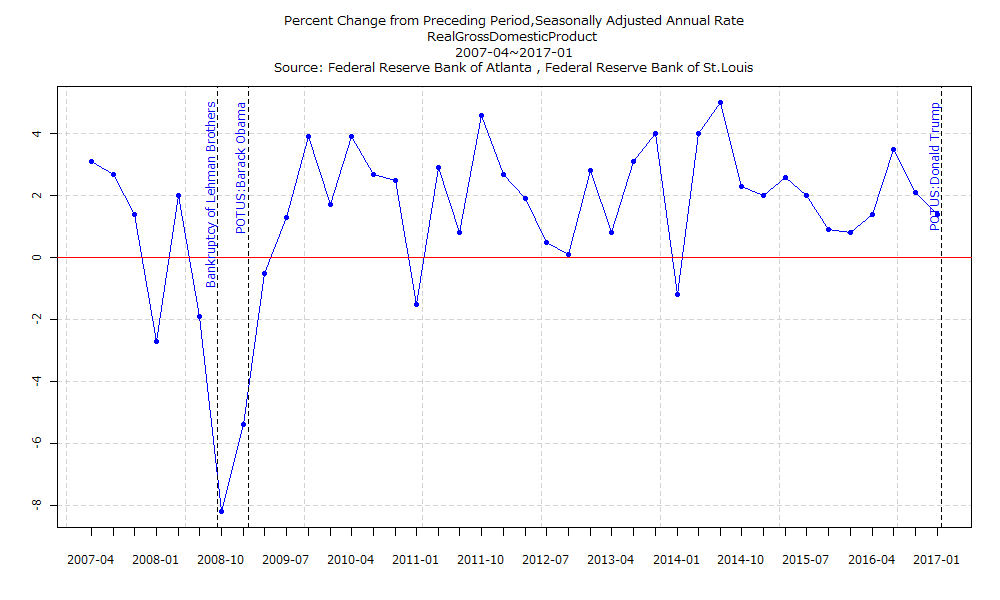
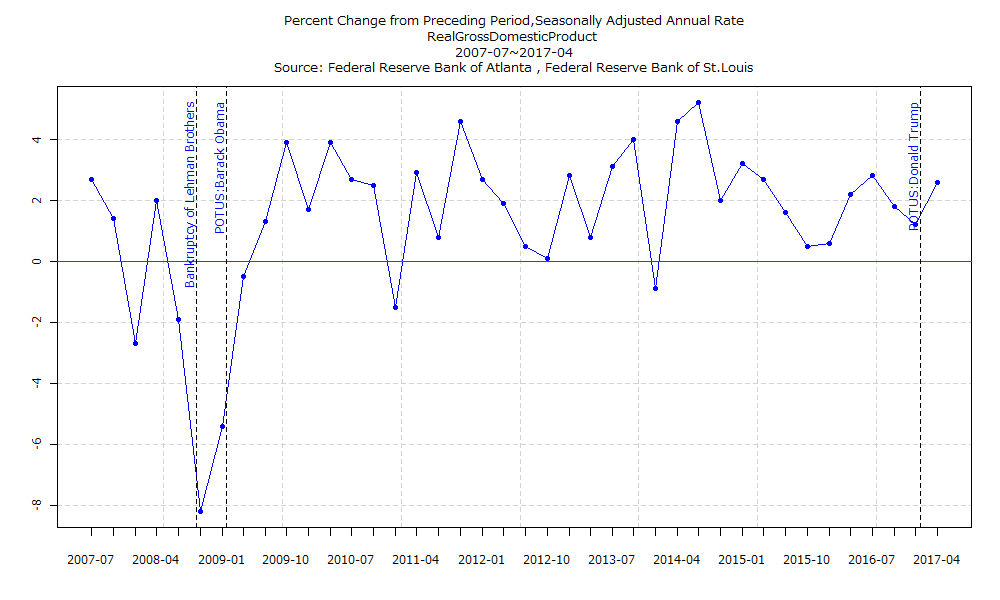
定期更新
定期更新

diff --git a/charts/am-consulting.co.jp-LatestGDPNow.html b/charts/am-consulting.co.jp-LatestGDPNow.html
@@ -149,7 +149,7 @@ $(document).ready(function () {
 
 <h1 class="title toc-ignore">Latest GDPNow(Source:Federal Reserve Bank of Atlanta , Federal Reserve Bank of St.Louis)</h1>
 <h4 class="author"><em>アセット･マネジメント･コンサルティング株式会社 <a href="http://am-consulting.co.jp" class="uri">http://am-consulting.co.jp</a></em></h4>
-<h4 class="date"><em>2017-07-13 21:27:27</em></h4>
+<h4 class="date"><em>2017-08-01 11:38:52</em></h4>
 
 </div>
 
@@ -168,7 +168,7 @@ $(document).ready(function () {
 </ul>
 <hr />
 <ul>
-<li>タイトル : Latest GDPNow(GDPNOW):2017-Q2:2.5542%</li>
+<li>タイトル : Latest GDPNow(GDPNOW):2017-Q2:2.8194%</li>
 <li>データ出所 : Federal Reserve Bank of Atlanta , Federal Reserve Bank of St.Louis</li>
 <li>Real GDP growth (Seasonally adjusted annual rate,Quarterly percent change (SAAR))</li>
 <li>Source <a href="https://www.frbatlanta.org/cqer/research/gdpnow.aspx?panel=1" class="uri">https://www.frbatlanta.org/cqer/research/gdpnow.aspx?panel=1</a></li>
@@ -180,17 +180,14 @@ $(document).ready(function () {
 <ul>
 <li>Percent Change from Preceding Period,Seasonally Adjusted Annual Rate</li>
 </ul>
-<div id="htmlwidget-5790e74c674579276d4e" style="width:1056px;height:384px;" class="dygraphs html-widget"></div>
-<script type="application/json" data-for="htmlwidget-5790e74c674579276d4e">{"x":{"attrs":{"title":"","labels":["quarter","RealGrossDomesticProduct"],"retainDateWindow":false,"axes":{"x":{"pixelsPerLabel":60,"drawAxis":true},"y":{"drawAxis":true}},"legend":"follow","labelsDivWidth":300,"labelsShowZeroValues":true,"labelsSeparateLines":false,"hideOverlayOnMouseOut":true,"showRangeSelector":true,"rangeSelectorHeight":40,"rangeSelectorPlotFillColor":" #A7B1C4","rangeSelectorPlotStrokeColor":"#808FAB","interactionModel":"Dygraph.Interaction.defaultModel","stackedGraph":false,"fillGraph":false,"fillAlpha":0.15,"stepPlot":false,"drawPoints":false,"pointSize":1,"drawGapEdgePoints":false,"connectSeparatedPoints":false,"strokeWidth":1,"strokeBorderColor":"white","colors":["#1B9E77","#D95F02","#7570B3"],"colorValue":0.5,"colorSaturation":1,"includeZero":false,"drawAxesAtZero":false,"logscale":false,"axisTickSize":3,"axisLineColor":"black","axisLineWidth":0.3,"axisLabelColor":"black","axisLabelFontSize":14,"axisLabelWidth":60,"drawGrid":true,"gridLineWidth":0.3,"rightGap":5,"digitsAfterDecimal":2,"labelsKMB":false,"labelsKMG2":false,"labelsUTC":false,"maxNumberWidth":100,"animatedZooms":false,"mobileDisableYTouch":true},"scale":"quarterly","annotations":[],"shadings":[],"events":[{"pos":0,"labelLoc":"left","color":"red","strokePattern":[7,3],"axis":"y"}],"format":"date","data":[["1947-04-01T00:00:00.000Z","1947-07-01T00:00:00.000Z","1947-10-01T00:00:00.000Z","1948-01-01T00:00:00.000Z","1948-04-01T00:00:00.000Z","1948-07-01T00:00:00.000Z","1948-10-01T00:00:00.000Z","1949-01-01T00:00:00.000Z","1949-04-01T00:00:00.000Z","1949-07-01T00:00:00.000Z","1949-10-01T00:00:00.000Z","1950-01-01T00:00:00.000Z","1950-04-01T00:00:00.000Z","1950-07-01T00:00:00.000Z","1950-10-01T00:00:00.000Z","1951-01-01T00:00:00.000Z","1951-04-01T00:00:00.000Z","1951-07-01T00:00:00.000Z","1951-10-01T00:00:00.000Z","1952-01-01T00:00:00.000Z","1952-04-01T00:00:00.000Z","1952-07-01T00:00:00.000Z","1952-10-01T00:00:00.000Z","1953-01-01T00:00:00.000Z","1953-04-01T00:00:00.000Z","1953-07-01T00:00:00.000Z","1953-10-01T00:00:00.000Z","1954-01-01T00:00:00.000Z","1954-04-01T00:00:00.000Z","1954-07-01T00:00:00.000Z","1954-10-01T00:00:00.000Z","1955-01-01T00:00:00.000Z","1955-04-01T00:00:00.000Z","1955-07-01T00:00:00.000Z","1955-10-01T00:00:00.000Z","1956-01-01T00:00:00.000Z","1956-04-01T00:00:00.000Z","1956-07-01T00:00:00.000Z","1956-10-01T00:00:00.000Z","1957-01-01T00:00:00.000Z","1957-04-01T00:00:00.000Z","1957-07-01T00:00:00.000Z","1957-10-01T00:00:00.000Z","1958-01-01T00:00:00.000Z","1958-04-01T00:00:00.000Z","1958-07-01T00:00:00.000Z","1958-10-01T00:00:00.000Z","1959-01-01T00:00:00.000Z","1959-04-01T00:00:00.000Z","1959-07-01T00:00:00.000Z","1959-10-01T00:00:00.000Z","1960-01-01T00:00:00.000Z","1960-04-01T00:00:00.000Z","1960-07-01T00:00:00.000Z","1960-10-01T00:00:00.000Z","1961-01-01T00:00:00.000Z","1961-04-01T00:00:00.000Z","1961-07-01T00:00:00.000Z","1961-10-01T00:00:00.000Z","1962-01-01T00:00:00.000Z","1962-04-01T00:00:00.000Z","1962-07-01T00:00:00.000Z","1962-10-01T00:00:00.000Z","1963-01-01T00:00:00.000Z","1963-04-01T00:00:00.000Z","1963-07-01T00:00:00.000Z","1963-10-01T00:00:00.000Z","1964-01-01T00:00:00.000Z","1964-04-01T00:00:00.000Z","1964-07-01T00:00:00.000Z","1964-10-01T00:00:00.000Z","1965-01-01T00:00:00.000Z","1965-04-01T00:00:00.000Z","1965-07-01T00:00:00.000Z","1965-10-01T00:00:00.000Z","1966-01-01T00:00:00.000Z","1966-04-01T00:00:00.000Z","1966-07-01T00:00:00.000Z","1966-10-01T00:00:00.000Z","1967-01-01T00:00:00.000Z","1967-04-01T00:00:00.000Z","1967-07-01T00:00:00.000Z","1967-10-01T00:00:00.000Z","1968-01-01T00:00:00.000Z","1968-04-01T00:00:00.000Z","1968-07-01T00:00:00.000Z","1968-10-01T00:00:00.000Z","1969-01-01T00:00:00.000Z","1969-04-01T00:00:00.000Z","1969-07-01T00:00:00.000Z","1969-10-01T00:00:00.000Z","1970-01-01T00:00:00.000Z","1970-04-01T00:00:00.000Z","1970-07-01T00:00:00.000Z","1970-10-01T00:00:00.000Z","1971-01-01T00:00:00.000Z","1971-04-01T00:00:00.000Z","1971-07-01T00:00:00.000Z","1971-10-01T00:00:00.000Z","1972-01-01T00:00:00.000Z","1972-04-01T00:00:00.000Z","1972-07-01T00:00:00.000Z","1972-10-01T00:00:00.000Z","1973-01-01T00:00:00.000Z","1973-04-01T00:00:00.000Z","1973-07-01T00:00:00.000Z","1973-10-01T00:00:00.000Z","1974-01-01T00:00:00.000Z","1974-04-01T00:00:00.000Z","1974-07-01T00:00:00.000Z","1974-10-01T00:00:00.000Z","1975-01-01T00:00:00.000Z","1975-04-01T00:00:00.000Z","1975-07-01T00:00:00.000Z","1975-10-01T00:00:00.000Z","1976-01-01T00:00:00.000Z","1976-04-01T00:00:00.000Z","1976-07-01T00:00:00.000Z","1976-10-01T00:00:00.000Z","1977-01-01T00:00:00.000Z","1977-04-01T00:00:00.000Z","1977-07-01T00:00:00.000Z","1977-10-01T00:00:00.000Z","1978-01-01T00:00:00.000Z","1978-04-01T00:00:00.000Z","1978-07-01T00:00:00.000Z","1978-10-01T00:00:00.000Z","1979-01-01T00:00:00.000Z","1979-04-01T00:00:00.000Z","1979-07-01T00:00:00.000Z","1979-10-01T00:00:00.000Z","1980-01-01T00:00:00.000Z","1980-04-01T00:00:00.000Z","1980-07-01T00:00:00.000Z","1980-10-01T00:00:00.000Z","1981-01-01T00:00:00.000Z","1981-04-01T00:00:00.000Z","1981-07-01T00:00:00.000Z","1981-10-01T00:00:00.000Z","1982-01-01T00:00:00.000Z","1982-04-01T00:00:00.000Z","1982-07-01T00:00:00.000Z","1982-10-01T00:00:00.000Z","1983-01-01T00:00:00.000Z","1983-04-01T00:00:00.000Z","1983-07-01T00:00:00.000Z","1983-10-01T00:00:00.000Z","1984-01-01T00:00:00.000Z","1984-04-01T00:00:00.000Z","1984-07-01T00:00:00.000Z","1984-10-01T00:00:00.000Z","1985-01-01T00:00:00.000Z","1985-04-01T00:00:00.000Z","1985-07-01T00:00:00.000Z","1985-10-01T00:00:00.000Z","1986-01-01T00:00:00.000Z","1986-04-01T00:00:00.000Z","1986-07-01T00:00:00.000Z","1986-10-01T00:00:00.000Z","1987-01-01T00:00:00.000Z","1987-04-01T00:00:00.000Z","1987-07-01T00:00:00.000Z","1987-10-01T00:00:00.000Z","1988-01-01T00:00:00.000Z","1988-04-01T00:00:00.000Z","1988-07-01T00:00:00.000Z","1988-10-01T00:00:00.000Z","1989-01-01T00:00:00.000Z","1989-04-01T00:00:00.000Z","1989-07-01T00:00:00.000Z","1989-10-01T00:00:00.000Z","1990-01-01T00:00:00.000Z","1990-04-01T00:00:00.000Z","1990-07-01T00:00:00.000Z","1990-10-01T00:00:00.000Z","1991-01-01T00:00:00.000Z","1991-04-01T00:00:00.000Z","1991-07-01T00:00:00.000Z","1991-10-01T00:00:00.000Z","1992-01-01T00:00:00.000Z","1992-04-01T00:00:00.000Z","1992-07-01T00:00:00.000Z","1992-10-01T00:00:00.000Z","1993-01-01T00:00:00.000Z","1993-04-01T00:00:00.000Z","1993-07-01T00:00:00.000Z","1993-10-01T00:00:00.000Z","1994-01-01T00:00:00.000Z","1994-04-01T00:00:00.000Z","1994-07-01T00:00:00.000Z","1994-10-01T00:00:00.000Z","1995-01-01T00:00:00.000Z","1995-04-01T00:00:00.000Z","1995-07-01T00:00:00.000Z","1995-10-01T00:00:00.000Z","1996-01-01T00:00:00.000Z","1996-04-01T00:00:00.000Z","1996-07-01T00:00:00.000Z","1996-10-01T00:00:00.000Z","1997-01-01T00:00:00.000Z","1997-04-01T00:00:00.000Z","1997-07-01T00:00:00.000Z","1997-10-01T00:00:00.000Z","1998-01-01T00:00:00.000Z","1998-04-01T00:00:00.000Z","1998-07-01T00:00:00.000Z","1998-10-01T00:00:00.000Z","1999-01-01T00:00:00.000Z","1999-04-01T00:00:00.000Z","1999-07-01T00:00:00.000Z","1999-10-01T00:00:00.000Z","2000-01-01T00:00:00.000Z","2000-04-01T00:00:00.000Z","2000-07-01T00:00:00.000Z","2000-10-01T00:00:00.000Z","2001-01-01T00:00:00.000Z","2001-04-01T00:00:00.000Z","2001-07-01T00:00:00.000Z","2001-10-01T00:00:00.000Z","2002-01-01T00:00:00.000Z","2002-04-01T00:00:00.000Z","2002-07-01T00:00:00.000Z","2002-10-01T00:00:00.000Z","2003-01-01T00:00:00.000Z","2003-04-01T00:00:00.000Z","2003-07-01T00:00:00.000Z","2003-10-01T00:00:00.000Z","2004-01-01T00:00:00.000Z","2004-04-01T00:00:00.000Z","2004-07-01T00:00:00.000Z","2004-10-01T00:00:00.000Z","2005-01-01T00:00:00.000Z","2005-04-01T00:00:00.000Z","2005-07-01T00:00:00.000Z","2005-10-01T00:00:00.000Z","2006-01-01T00:00:00.000Z","2006-04-01T00:00:00.000Z","2006-07-01T00:00:00.000Z","2006-10-01T00:00:00.000Z","2007-01-01T00:00:00.000Z","2007-04-01T00:00:00.000Z","2007-07-01T00:00:00.000Z","2007-10-01T00:00:00.000Z","2008-01-01T00:00:00.000Z","2008-04-01T00:00:00.000Z","2008-07-01T00:00:00.000Z","2008-10-01T00:00:00.000Z","2009-01-01T00:00:00.000Z","2009-04-01T00:00:00.000Z","2009-07-01T00:00:00.000Z","2009-10-01T00:00:00.000Z","2010-01-01T00:00:00.000Z","2010-04-01T00:00:00.000Z","2010-07-01T00:00:00.000Z","2010-10-01T00:00:00.000Z","2011-01-01T00:00:00.000Z","2011-04-01T00:00:00.000Z","2011-07-01T00:00:00.000Z","2011-10-01T00:00:00.000Z","2012-01-01T00:00:00.000Z","2012-04-01T00:00:00.000Z","2012-07-01T00:00:00.000Z","2012-10-01T00:00:00.000Z","2013-01-01T00:00:00.000Z","2013-04-01T00:00:00.000Z","2013-07-01T00:00:00.000Z","2013-10-01T00:00:00.000Z","2014-01-01T00:00:00.000Z","2014-04-01T00:00:00.000Z","2014-07-01T00:00:00.000Z","2014-10-01T00:00:00.000Z","2015-01-01T00:00:00.000Z","2015-04-01T00:00:00.000Z","2015-07-01T00:00:00.000Z","2015-10-01T00:00:00.000Z","2016-01-01T00:00:00.000Z","2016-04-01T00:00:00.000Z","2016-07-01T00:00:00.000Z","2016-10-01T00:00:00.000Z","2017-01-01T00:00:00.000Z"],[-0.4,-0.4,6.4,6,6.7,2.3,0.4,-5.4,-1.3,4.5,-3.5,16.9,12.7,16.3,8,5.6,7.1,8.5,0.9,4.3,0.8,2.9,13.8,7.7,3.2,-2.2,-5.9,-1.8,0.4,4.6,8,11.9,6.7,5.5,2.4,-1.5,3.4,-0.3,6.7,2.6,-0.9,4,-4,-10,2.6,9.6,9.7,7.7,10.1,-0.8,1.6,9.2,-1.5,1,-4.8,2.7,7.6,6.8,8.3,7.4,4.4,3.9,1.6,4.5,5.3,8,2.9,8.9,4.8,5.5,1.4,10.2,5.6,8.4,9.8,10.2,1.6,2.9,3.5,3.7,0.3,3.5,3.2,8.4,6.9,2.9,1.8,6.4,1.3,2.5,-1.7,-0.7,0.7,3.6,-4,11.1,2.3,3.2,1.2,7.4,9.6,3.7,6.8,10.2,4.6,-2.2,3.8,-3.3,1.1,-3.8,-1.6,-4.7,3.1,6.8,5.5,9.3,3.1,2.1,3,4.7,8.1,7.3,0,1.4,16.5,4,5.5,0.8,0.5,2.9,1,1.3,-7.9,-0.6,7.6,8.5,-2.9,4.7,-4.6,-6.5,2.2,-1.4,0.4,5.3,9.4,8.1,8.5,8.2,7.2,4,3.2,4,3.7,6.4,3,3.8,1.9,4.1,2.1,2.8,4.6,3.7,6.8,2.3,5.4,2.3,5.4,4.1,3.2,3,0.9,4.5,1.6,0.1,-3.4,-1.9,3.1,1.9,1.8,4.8,4.5,3.9,4.1,0.8,2.4,2,5.4,4,5.6,2.4,4.6,1.4,1.4,3.5,2.9,2.7,7.2,3.7,4.3,3.1,6.2,5.2,3.1,4,3.9,5.3,6.7,3.2,3.3,5.1,7.1,1.2,7.8,0.5,2.3,-1.1,2.1,-1.3,1.1,3.7,2.2,2,0.3,2.1,3.8,6.9,4.8,2.3,3,3.7,3.5,4.3,2.1,3.4,2.3,4.9,1.2,0.4,3.2,0.2,3.1,2.7,1.4,-2.7,2,-1.9,-8.2,-5.4,-0.5,1.3,3.9,1.7,3.9,2.7,2.5,-1.5,2.9,0.8,4.6,2.7,1.9,0.5,0.1,2.8,0.8,3.1,4,-1.2,4,5,2.3,2,2.6,2,0.9,0.8,1.4,3.5,2.1,1.4]],"plugins":{"Unzoom":"{}","Crosshair":{"direction":"both"}},"fixedtz":false,"tzone":"UTC","plotter":"BarChart"},"evals":["attrs.interactionModel","plugins.Unzoom"],"jsHooks":[]}</script><br>
+<div id="htmlwidget-e3fd93068b7217bf496f" style="width:1056px;height:384px;" class="dygraphs html-widget"></div>
+<script type="application/json" data-for="htmlwidget-e3fd93068b7217bf496f">{"x":{"attrs":{"title":"","labels":["quarter","RealGrossDomesticProduct"],"retainDateWindow":false,"axes":{"x":{"pixelsPerLabel":60,"drawAxis":true},"y":{"drawAxis":true}},"legend":"follow","labelsDivWidth":300,"labelsShowZeroValues":true,"labelsSeparateLines":false,"hideOverlayOnMouseOut":true,"showRangeSelector":true,"rangeSelectorHeight":40,"rangeSelectorPlotFillColor":" #A7B1C4","rangeSelectorPlotStrokeColor":"#808FAB","interactionModel":"Dygraph.Interaction.defaultModel","stackedGraph":false,"fillGraph":false,"fillAlpha":0.15,"stepPlot":false,"drawPoints":false,"pointSize":1,"drawGapEdgePoints":false,"connectSeparatedPoints":false,"strokeWidth":1,"strokeBorderColor":"white","colors":["#1B9E77","#D95F02","#7570B3"],"colorValue":0.5,"colorSaturation":1,"includeZero":false,"drawAxesAtZero":false,"logscale":false,"axisTickSize":3,"axisLineColor":"black","axisLineWidth":0.3,"axisLabelColor":"black","axisLabelFontSize":14,"axisLabelWidth":60,"drawGrid":true,"gridLineWidth":0.3,"rightGap":5,"digitsAfterDecimal":2,"labelsKMB":false,"labelsKMG2":false,"labelsUTC":false,"maxNumberWidth":100,"animatedZooms":false,"mobileDisableYTouch":true},"scale":"quarterly","annotations":[],"shadings":[],"events":[{"pos":0,"labelLoc":"left","color":"red","strokePattern":[7,3],"axis":"y"}],"format":"date","data":[["1947-04-01T00:00:00.000Z","1947-07-01T00:00:00.000Z","1947-10-01T00:00:00.000Z","1948-01-01T00:00:00.000Z","1948-04-01T00:00:00.000Z","1948-07-01T00:00:00.000Z","1948-10-01T00:00:00.000Z","1949-01-01T00:00:00.000Z","1949-04-01T00:00:00.000Z","1949-07-01T00:00:00.000Z","1949-10-01T00:00:00.000Z","1950-01-01T00:00:00.000Z","1950-04-01T00:00:00.000Z","1950-07-01T00:00:00.000Z","1950-10-01T00:00:00.000Z","1951-01-01T00:00:00.000Z","1951-04-01T00:00:00.000Z","1951-07-01T00:00:00.000Z","1951-10-01T00:00:00.000Z","1952-01-01T00:00:00.000Z","1952-04-01T00:00:00.000Z","1952-07-01T00:00:00.000Z","1952-10-01T00:00:00.000Z","1953-01-01T00:00:00.000Z","1953-04-01T00:00:00.000Z","1953-07-01T00:00:00.000Z","1953-10-01T00:00:00.000Z","1954-01-01T00:00:00.000Z","1954-04-01T00:00:00.000Z","1954-07-01T00:00:00.000Z","1954-10-01T00:00:00.000Z","1955-01-01T00:00:00.000Z","1955-04-01T00:00:00.000Z","1955-07-01T00:00:00.000Z","1955-10-01T00:00:00.000Z","1956-01-01T00:00:00.000Z","1956-04-01T00:00:00.000Z","1956-07-01T00:00:00.000Z","1956-10-01T00:00:00.000Z","1957-01-01T00:00:00.000Z","1957-04-01T00:00:00.000Z","1957-07-01T00:00:00.000Z","1957-10-01T00:00:00.000Z","1958-01-01T00:00:00.000Z","1958-04-01T00:00:00.000Z","1958-07-01T00:00:00.000Z","1958-10-01T00:00:00.000Z","1959-01-01T00:00:00.000Z","1959-04-01T00:00:00.000Z","1959-07-01T00:00:00.000Z","1959-10-01T00:00:00.000Z","1960-01-01T00:00:00.000Z","1960-04-01T00:00:00.000Z","1960-07-01T00:00:00.000Z","1960-10-01T00:00:00.000Z","1961-01-01T00:00:00.000Z","1961-04-01T00:00:00.000Z","1961-07-01T00:00:00.000Z","1961-10-01T00:00:00.000Z","1962-01-01T00:00:00.000Z","1962-04-01T00:00:00.000Z","1962-07-01T00:00:00.000Z","1962-10-01T00:00:00.000Z","1963-01-01T00:00:00.000Z","1963-04-01T00:00:00.000Z","1963-07-01T00:00:00.000Z","1963-10-01T00:00:00.000Z","1964-01-01T00:00:00.000Z","1964-04-01T00:00:00.000Z","1964-07-01T00:00:00.000Z","1964-10-01T00:00:00.000Z","1965-01-01T00:00:00.000Z","1965-04-01T00:00:00.000Z","1965-07-01T00:00:00.000Z","1965-10-01T00:00:00.000Z","1966-01-01T00:00:00.000Z","1966-04-01T00:00:00.000Z","1966-07-01T00:00:00.000Z","1966-10-01T00:00:00.000Z","1967-01-01T00:00:00.000Z","1967-04-01T00:00:00.000Z","1967-07-01T00:00:00.000Z","1967-10-01T00:00:00.000Z","1968-01-01T00:00:00.000Z","1968-04-01T00:00:00.000Z","1968-07-01T00:00:00.000Z","1968-10-01T00:00:00.000Z","1969-01-01T00:00:00.000Z","1969-04-01T00:00:00.000Z","1969-07-01T00:00:00.000Z","1969-10-01T00:00:00.000Z","1970-01-01T00:00:00.000Z","1970-04-01T00:00:00.000Z","1970-07-01T00:00:00.000Z","1970-10-01T00:00:00.000Z","1971-01-01T00:00:00.000Z","1971-04-01T00:00:00.000Z","1971-07-01T00:00:00.000Z","1971-10-01T00:00:00.000Z","1972-01-01T00:00:00.000Z","1972-04-01T00:00:00.000Z","1972-07-01T00:00:00.000Z","1972-10-01T00:00:00.000Z","1973-01-01T00:00:00.000Z","1973-04-01T00:00:00.000Z","1973-07-01T00:00:00.000Z","1973-10-01T00:00:00.000Z","1974-01-01T00:00:00.000Z","1974-04-01T00:00:00.000Z","1974-07-01T00:00:00.000Z","1974-10-01T00:00:00.000Z","1975-01-01T00:00:00.000Z","1975-04-01T00:00:00.000Z","1975-07-01T00:00:00.000Z","1975-10-01T00:00:00.000Z","1976-01-01T00:00:00.000Z","1976-04-01T00:00:00.000Z","1976-07-01T00:00:00.000Z","1976-10-01T00:00:00.000Z","1977-01-01T00:00:00.000Z","1977-04-01T00:00:00.000Z","1977-07-01T00:00:00.000Z","1977-10-01T00:00:00.000Z","1978-01-01T00:00:00.000Z","1978-04-01T00:00:00.000Z","1978-07-01T00:00:00.000Z","1978-10-01T00:00:00.000Z","1979-01-01T00:00:00.000Z","1979-04-01T00:00:00.000Z","1979-07-01T00:00:00.000Z","1979-10-01T00:00:00.000Z","1980-01-01T00:00:00.000Z","1980-04-01T00:00:00.000Z","1980-07-01T00:00:00.000Z","1980-10-01T00:00:00.000Z","1981-01-01T00:00:00.000Z","1981-04-01T00:00:00.000Z","1981-07-01T00:00:00.000Z","1981-10-01T00:00:00.000Z","1982-01-01T00:00:00.000Z","1982-04-01T00:00:00.000Z","1982-07-01T00:00:00.000Z","1982-10-01T00:00:00.000Z","1983-01-01T00:00:00.000Z","1983-04-01T00:00:00.000Z","1983-07-01T00:00:00.000Z","1983-10-01T00:00:00.000Z","1984-01-01T00:00:00.000Z","1984-04-01T00:00:00.000Z","1984-07-01T00:00:00.000Z","1984-10-01T00:00:00.000Z","1985-01-01T00:00:00.000Z","1985-04-01T00:00:00.000Z","1985-07-01T00:00:00.000Z","1985-10-01T00:00:00.000Z","1986-01-01T00:00:00.000Z","1986-04-01T00:00:00.000Z","1986-07-01T00:00:00.000Z","1986-10-01T00:00:00.000Z","1987-01-01T00:00:00.000Z","1987-04-01T00:00:00.000Z","1987-07-01T00:00:00.000Z","1987-10-01T00:00:00.000Z","1988-01-01T00:00:00.000Z","1988-04-01T00:00:00.000Z","1988-07-01T00:00:00.000Z","1988-10-01T00:00:00.000Z","1989-01-01T00:00:00.000Z","1989-04-01T00:00:00.000Z","1989-07-01T00:00:00.000Z","1989-10-01T00:00:00.000Z","1990-01-01T00:00:00.000Z","1990-04-01T00:00:00.000Z","1990-07-01T00:00:00.000Z","1990-10-01T00:00:00.000Z","1991-01-01T00:00:00.000Z","1991-04-01T00:00:00.000Z","1991-07-01T00:00:00.000Z","1991-10-01T00:00:00.000Z","1992-01-01T00:00:00.000Z","1992-04-01T00:00:00.000Z","1992-07-01T00:00:00.000Z","1992-10-01T00:00:00.000Z","1993-01-01T00:00:00.000Z","1993-04-01T00:00:00.000Z","1993-07-01T00:00:00.000Z","1993-10-01T00:00:00.000Z","1994-01-01T00:00:00.000Z","1994-04-01T00:00:00.000Z","1994-07-01T00:00:00.000Z","1994-10-01T00:00:00.000Z","1995-01-01T00:00:00.000Z","1995-04-01T00:00:00.000Z","1995-07-01T00:00:00.000Z","1995-10-01T00:00:00.000Z","1996-01-01T00:00:00.000Z","1996-04-01T00:00:00.000Z","1996-07-01T00:00:00.000Z","1996-10-01T00:00:00.000Z","1997-01-01T00:00:00.000Z","1997-04-01T00:00:00.000Z","1997-07-01T00:00:00.000Z","1997-10-01T00:00:00.000Z","1998-01-01T00:00:00.000Z","1998-04-01T00:00:00.000Z","1998-07-01T00:00:00.000Z","1998-10-01T00:00:00.000Z","1999-01-01T00:00:00.000Z","1999-04-01T00:00:00.000Z","1999-07-01T00:00:00.000Z","1999-10-01T00:00:00.000Z","2000-01-01T00:00:00.000Z","2000-04-01T00:00:00.000Z","2000-07-01T00:00:00.000Z","2000-10-01T00:00:00.000Z","2001-01-01T00:00:00.000Z","2001-04-01T00:00:00.000Z","2001-07-01T00:00:00.000Z","2001-10-01T00:00:00.000Z","2002-01-01T00:00:00.000Z","2002-04-01T00:00:00.000Z","2002-07-01T00:00:00.000Z","2002-10-01T00:00:00.000Z","2003-01-01T00:00:00.000Z","2003-04-01T00:00:00.000Z","2003-07-01T00:00:00.000Z","2003-10-01T00:00:00.000Z","2004-01-01T00:00:00.000Z","2004-04-01T00:00:00.000Z","2004-07-01T00:00:00.000Z","2004-10-01T00:00:00.000Z","2005-01-01T00:00:00.000Z","2005-04-01T00:00:00.000Z","2005-07-01T00:00:00.000Z","2005-10-01T00:00:00.000Z","2006-01-01T00:00:00.000Z","2006-04-01T00:00:00.000Z","2006-07-01T00:00:00.000Z","2006-10-01T00:00:00.000Z","2007-01-01T00:00:00.000Z","2007-04-01T00:00:00.000Z","2007-07-01T00:00:00.000Z","2007-10-01T00:00:00.000Z","2008-01-01T00:00:00.000Z","2008-04-01T00:00:00.000Z","2008-07-01T00:00:00.000Z","2008-10-01T00:00:00.000Z","2009-01-01T00:00:00.000Z","2009-04-01T00:00:00.000Z","2009-07-01T00:00:00.000Z","2009-10-01T00:00:00.000Z","2010-01-01T00:00:00.000Z","2010-04-01T00:00:00.000Z","2010-07-01T00:00:00.000Z","2010-10-01T00:00:00.000Z","2011-01-01T00:00:00.000Z","2011-04-01T00:00:00.000Z","2011-07-01T00:00:00.000Z","2011-10-01T00:00:00.000Z","2012-01-01T00:00:00.000Z","2012-04-01T00:00:00.000Z","2012-07-01T00:00:00.000Z","2012-10-01T00:00:00.000Z","2013-01-01T00:00:00.000Z","2013-04-01T00:00:00.000Z","2013-07-01T00:00:00.000Z","2013-10-01T00:00:00.000Z","2014-01-01T00:00:00.000Z","2014-04-01T00:00:00.000Z","2014-07-01T00:00:00.000Z","2014-10-01T00:00:00.000Z","2015-01-01T00:00:00.000Z","2015-04-01T00:00:00.000Z","2015-07-01T00:00:00.000Z","2015-10-01T00:00:00.000Z","2016-01-01T00:00:00.000Z","2016-04-01T00:00:00.000Z","2016-07-01T00:00:00.000Z","2016-10-01T00:00:00.000Z","2017-01-01T00:00:00.000Z","2017-04-01T00:00:00.000Z"],[-0.4,-0.4,6.4,6,6.7,2.3,0.4,-5.4,-1.3,4.5,-3.5,16.9,12.7,16.3,8,5.6,7.1,8.5,0.9,4.3,0.8,2.9,13.8,7.7,3.2,-2.2,-5.9,-1.8,0.4,4.6,8,11.9,6.7,5.5,2.4,-1.5,3.4,-0.3,6.7,2.6,-0.9,4,-4,-10,2.6,9.6,9.7,7.7,10.1,-0.8,1.6,9.2,-1.5,1,-4.8,2.7,7.6,6.8,8.3,7.4,4.4,3.9,1.6,4.5,5.3,8,2.9,8.9,4.8,5.5,1.4,10.2,5.6,8.4,9.8,10.2,1.6,2.9,3.5,3.7,0.3,3.5,3.2,8.4,6.9,2.9,1.8,6.4,1.3,2.5,-1.7,-0.7,0.7,3.6,-4,11.1,2.3,3.2,1.2,7.4,9.6,3.7,6.8,10.2,4.6,-2.2,3.8,-3.3,1.1,-3.8,-1.6,-4.7,3.1,6.8,5.5,9.3,3.1,2.1,3,4.7,8.1,7.3,0,1.4,16.5,4,5.5,0.8,0.5,2.9,1,1.3,-7.9,-0.6,7.6,8.5,-2.9,4.7,-4.6,-6.5,2.2,-1.4,0.4,5.3,9.4,8.1,8.5,8.2,7.2,4,3.2,4,3.7,6.4,3,3.8,1.9,4.1,2.1,2.8,4.6,3.7,6.8,2.3,5.4,2.3,5.4,4.1,3.2,3,0.9,4.5,1.6,0.1,-3.4,-1.9,3.1,1.9,1.8,4.8,4.5,3.9,4.1,0.8,2.4,2,5.4,4,5.6,2.4,4.6,1.4,1.4,3.5,2.9,2.7,7.2,3.7,4.3,3.1,6.2,5.2,3.1,4,3.9,5.3,6.7,3.2,3.3,5.1,7.1,1.2,7.8,0.5,2.3,-1.1,2.1,-1.3,1.1,3.7,2.2,2,0.3,2.1,3.8,6.9,4.8,2.3,3,3.7,3.5,4.3,2.1,3.4,2.3,4.9,1.2,0.4,3.2,0.2,3.1,2.7,1.4,-2.7,2,-1.9,-8.2,-5.4,-0.5,1.3,3.9,1.7,3.9,2.7,2.5,-1.5,2.9,0.8,4.6,2.7,1.9,0.5,0.1,2.8,0.8,3.1,4,-0.9,4.6,5.2,2,3.2,2.7,1.6,0.5,0.6,2.2,2.8,1.8,1.2,2.6]],"plugins":{"Unzoom":"{}","Crosshair":{"direction":"both"}},"fixedtz":false,"tzone":"UTC","plotter":"BarChart"},"evals":["attrs.interactionModel","plugins.Unzoom"],"jsHooks":[]}</script><br>
 <div class="amccTableAutoScroll">
-<table id="amcc" width="100%">
+<table width="100%" class="amcc">
 <thead>
 <tr>
 <th style="text-align:right;">
 Item
-</th>
-<th style="text-align:right;">
-2016-01
 </th>
 <th style="text-align:right;">
 2016-04
@@ -204,15 +201,15 @@ Item
 <th style="text-align:right;">
 2017-01
 </th>
+<th style="text-align:right;">
+2017-04
+</th>
 </tr>
 </thead>
 <tbody>
 <tr>
 <td style="text-align:right;">
 GDPNow(GDPNOW)
-</td>
-<td style="text-align:right;">
-0.6209
 </td>
 <td style="text-align:right;">
 1.8333
@@ -226,25 +223,28 @@ GDPNow(GDPNOW)
 <td style="text-align:right;">
 0.1699
 </td>
+<td style="text-align:right;">
+2.8194
+</td>
 </tr>
 <tr>
 <td style="text-align:right;">
 RealGrossDomesticProduct
 </td>
 <td style="text-align:right;">
-0.8
+2.2
 </td>
 <td style="text-align:right;">
-1.4
+2.8
 </td>
 <td style="text-align:right;">
-3.5
+1.8
 </td>
 <td style="text-align:right;">
-2.1
+1.2
 </td>
 <td style="text-align:right;">
-1.4
+2.6
 </td>
 </tr>
 </tbody>
@@ -254,8 +254,8 @@ RealGrossDomesticProduct
 <h5>
 GDPNow. Nowcast
 </h5>
-<div id="htmlwidget-4972fd53d20e8e0e3f2e" style="width:100%;height:auto;" class="datatables html-widget"></div>
-<script type="application/json" data-for="htmlwidget-4972fd53d20e8e0e3f2e">{"x":{"filter":"none","extensions":["Buttons","ColReorder","FixedColumns","FixedHeader"],"caption":"<caption><\/caption>","data":[["GDPNow(GDPNOW)","Nowcast for Real Gross Private Domestic Investment: Fixed Investment: Business(BUSFIXINVESTNOW)","Nowcast for Real Gross Private Domestic Investment: Fixed Investment: Business: Equipment(EQUIPNOW)","Nowcast for Real Change of Inventory Investment(CHNGNETINVENTNOW)","Nowcast for Real Personal Consumption Expenditures(PCENOW)","Nowcast for Real Gross Private Domestic Investment(GDPINOW)","Nowcast for Real Change of Net Exports of Goods and Services(CHNGNETEXPORTSNOW)","Nowcast for Real Personal Consumption Expenditures: Services(PCESERVICESNOW)","Nowcast for Real Gross Private Domestic Investment: Fixed Investment: Business: Structures(STRUCTNOW)","Nowcast for Real Imports of Goods and Services(IMPORTSNOW)","Nowcast for Real Gross Private Domestic Investment: Fixed Investment: Residential(RESNOW)","Nowcast for Real Gross Government Investment(GOVNOW)","Nowcast for Real Final Sales of Domestic Product(FINSALESNOW)","Nowcast for Real Gross Government Investment: Federal Government(FEDGOVNOW)","Nowcast for Real Imports of Goods(IMPORTSGOODSNOW)","Nowcast for Real Exports of Goods(EXPORTSGOODSNOW)","Nowcast for Real Exports of Services(EXPORTSSERVICESNOW)","Nowcast for Real Imports of Services(IMPORTSERVICESNOW)","Nowcast for Real Final Sales of Domestic Purchasers(FINSALESDOMPURNOW)","Nowcast for Real Personal Consumption Expenditures: Goods(PCEGOODSNOW)","Nowcast for Real Final Sales of Private Domestic Purchasers(FINSALESDOMPRIVPUR)","Nowcast for Real Gross Private Domestic Investment: Fixed Investment(FIXINVESTNOW)","Nowcast for Real Gross Government Investment: State and Local Government(SLGOVNOW)","Nowcast for Real Gross Private Domestic Investment: Fixed Investment: Business: Intellectual Property Products(IPPNOW)"],[2.5542,3.8305,4.3055,25.4141,3.1006,6.4223,-23.2855,2.3237,0.1327,4.8238,-0.9992,-0.6436,1.944,-2.1834,5.1998,0.4257,4.37,3.1243,2.3859,4.756,3.0151,2.6584,0.3015,5.7417]],"container":"<table class=\"display compact\">\n  <thead>\n    <tr>\n      <th>Observation Date<\/th>\n      <th>2017-Q2<\/th>\n    <\/tr>\n  <\/thead>\n<\/table>","options":{"paging":true,"autoWidth":false,"info":true,"lengthChange":true,"ordering":true,"searching":true,"scrollX":true,"lengthMenu":[[10,-1],["10","All"]],"orderClasses":true,"order":[[0,"asc"]],"search":{"regex":true,"caseInsensitive":true},"searchHighlight":true,"dom":"BRlfrtip","buttons":["colvis"],"colReorder":true,"fixedHeader":true,"fixedColumns":{"leftColumns":1},"columnDefs":[{"className":"dt-right","targets":[0,1]},{"className":"dt-right","targets":1}]},"selection":{"mode":"multiple","selected":null,"target":"row"}},"evals":[],"jsHooks":[]}</script>
+<div id="htmlwidget-d982652f2bdcc2566dfa" style="width:100%;height:auto;" class="datatables html-widget"></div>
+<script type="application/json" data-for="htmlwidget-d982652f2bdcc2566dfa">{"x":{"filter":"none","extensions":["Buttons","ColReorder","FixedColumns","FixedHeader"],"caption":"<caption><\/caption>","data":[["GDPNow(GDPNOW)","Nowcast for Real Gross Private Domestic Investment: Fixed Investment: Business(BUSFIXINVESTNOW)","Nowcast for Real Gross Private Domestic Investment: Fixed Investment: Business: Equipment(EQUIPNOW)","Nowcast for Real Change of Inventory Investment(CHNGNETINVENTNOW)","Nowcast for Real Personal Consumption Expenditures(PCENOW)","Nowcast for Real Gross Private Domestic Investment(GDPINOW)","Nowcast for Real Change of Net Exports of Goods and Services(CHNGNETEXPORTSNOW)","Nowcast for Real Personal Consumption Expenditures: Services(PCESERVICESNOW)","Nowcast for Real Gross Private Domestic Investment: Fixed Investment: Business: Structures(STRUCTNOW)","Nowcast for Real Imports of Goods and Services(IMPORTSNOW)","Nowcast for Real Gross Private Domestic Investment: Fixed Investment: Residential(RESNOW)","Nowcast for Real Gross Government Investment(GOVNOW)","Nowcast for Real Final Sales of Domestic Product(FINSALESNOW)","Nowcast for Real Gross Government Investment: Federal Government(FEDGOVNOW)","Nowcast for Real Imports of Goods(IMPORTSGOODSNOW)","Nowcast for Real Exports of Goods(EXPORTSGOODSNOW)","Nowcast for Real Exports of Services(EXPORTSSERVICESNOW)","Nowcast for Real Imports of Services(IMPORTSERVICESNOW)","Nowcast for Real Final Sales of Domestic Purchasers(FINSALESDOMPURNOW)","Nowcast for Real Personal Consumption Expenditures: Goods(PCEGOODSNOW)","Nowcast for Real Final Sales of Private Domestic Purchasers(FINSALESDOMPRIVPUR)","Nowcast for Real Gross Private Domestic Investment: Fixed Investment(FIXINVESTNOW)","Nowcast for Real Gross Government Investment: State and Local Government(SLGOVNOW)","Nowcast for Real Gross Private Domestic Investment: Fixed Investment: Business: Intellectual Property Products(IPPNOW)"],[2.8194,3.8983,3.9989,34.4989,2.8657,7.6332,-18.2097,2.2846,1.032,3.9622,-1.8266,0.0279,1.9902,-0.4945,4.155,0.2655,4.2981,3.0874,2.3213,4.1011,2.7961,2.5054,0.3466,5.7417]],"container":"<table class=\"display compact\">\n  <thead>\n    <tr>\n      <th>Observation Date<\/th>\n      <th>2017-Q2<\/th>\n    <\/tr>\n  <\/thead>\n<\/table>","options":{"paging":true,"autoWidth":false,"info":true,"lengthChange":true,"ordering":true,"searching":true,"scrollX":true,"lengthMenu":[[10,-1],["10","All"]],"orderClasses":true,"order":[[0,"asc"]],"search":{"regex":true,"caseInsensitive":true},"searchHighlight":true,"dom":"BRlfrtip","buttons":["colvis"],"colReorder":true,"fixedHeader":true,"fixedColumns":{"leftColumns":1},"columnDefs":[{"className":"dt-right","targets":[0,1]},{"className":"dt-right","targets":1}]},"selection":{"mode":"multiple","selected":null,"target":"row"}},"evals":[],"jsHooks":[]}</script>
 <ul>
 <li>Unit：Percent Change at Annual Rate,Seasonally Adjusted Annual Rate.</li>
 </ul>
@@ -263,8 +263,8 @@ GDPNow. Nowcast
 <h5>
 GDPNow. Contributions
 </h5>
-<div id="htmlwidget-307089ef0b664865c8bf" style="width:100%;height:auto;" class="datatables html-widget"></div>
-<script type="application/json" data-for="htmlwidget-307089ef0b664865c8bf">{"x":{"filter":"none","extensions":["Buttons","ColReorder","FixedColumns","FixedHeader"],"caption":"<caption><\/caption>","data":[["Contributions to percent change in GDPNow: Real Gross Private Domestic Investment: Fixed Investment: Business: Equipment(EQUIPCONTRIBNOW)","Contributions to percent change in GDPNow: Real Gross Private Domestic Investment: Fixed Investment: Business: Intellectual Property Products(IPPCONTRIBNOW)","Contributions to percent change in GDPNow: Real Change of Inventory Investment(CHNGNETINVENTCONTRIBNOW)","Contributions to percent change in GDPNow: Real Change of Net Exports of Goods and Services(CHNGNETEXPORTSCONTRIBNOW)","Contributions to percent change in GDPNow: Real Personal Consumption Expenditures(PCECONTRIBNOW)","Contributions to percent change in GDPNow: Real Gross Private Domestic Investment: Fixed Investment: Business(BUSFIXINVESTCONTRIBNOW)","Contributions to percent change in GDPNow: Real Gross Private Domestic Investment(GDPICONTRIBNOW)","Contributions to percent change in GDPNow: Real Gross Government Investment: State and Local Government(SLGOVCONTRIBNOW)","Contributions to percent change in GDPNow: Real Exports of Goods and Services(EXPORTSCONTRIBNOW)","Contributions to percent change in GDPNow: Real Gross Private Domestic Investment: Fixed Investment: Business: Structures (STRUCTCONTRIBNOW)","Contributions to percent change in GDPNow: Real Gross Government Investment: Federal Government(FEDGOVCONTRIBNOW)","Contributions to percent change in GDPNow: Real Imports of Goods and Services(IMPORTSCONTRIBNOW)","Contributions to percent change in GDPNow: Real Final Sales of Domestic Product(FINSALESCONTRIBNOW)","Contributions to percent change in GDPNow: Real Personal Consumption Expenditures: Goods(PCEGOODSCONTRIBNOW)","Contributions to percent change in GDPNow: Real Gross Private Domestic Investment: Fixed Investment: Residential(RESCONTRIBNOW)","Contributions to percent change in GDPNow: Real Exports of Goods(EXPORTSGOODSCONTRIBNOW)","Contributions to percent change in GDPNow: Real Imports of Goods(IMPORTSGOODSCONTRIBNOW)","Contributions to percent change in GDPNow: Real Exports of Services(EXPORTSSERVICESCONTRIBNOW)","Contributions to percent change in GDPNow: Real Imports of Services(IMPORTSERVICESCONTRIBNOW)","Contributions to percent change in GDPNow: Real Gross Government Investment(GOVCONTRIBNOW)","Contributions to percent change in GDPNow: Real Personal Consumption Expenditures: Services(PCESERVICESCONTRIBNOW)","Contributions to percent change in GDPNow: Real Gross Private Domestic Investment: Fixed Investment(FIXINVESTCONTRIBNOW)"],[0.2411,0.2334,0.6056,-0.51,2.1343,0.4783,1.0439,0.0331,0.2159,0.0037,-0.1472,-0.7258,1.9486,1.0457,-0.04,0.0344,-0.6406,0.1815,-0.0852,-0.1141,1.0886,0.4383]],"container":"<table class=\"display compact\">\n  <thead>\n    <tr>\n      <th>Observation Date<\/th>\n      <th>2017-Q2<\/th>\n    <\/tr>\n  <\/thead>\n<\/table>","options":{"paging":true,"autoWidth":false,"info":true,"lengthChange":true,"ordering":true,"searching":true,"scrollX":true,"lengthMenu":[[10,-1],["10","All"]],"orderClasses":true,"order":[[0,"asc"]],"search":{"regex":true,"caseInsensitive":true},"searchHighlight":true,"dom":"BRlfrtip","buttons":["colvis"],"colReorder":true,"fixedHeader":true,"fixedColumns":{"leftColumns":1},"columnDefs":[{"className":"dt-right","targets":[0,1]},{"className":"dt-right","targets":1}]},"selection":{"mode":"multiple","selected":null,"target":"row"}},"evals":[],"jsHooks":[]}</script>
+<div id="htmlwidget-98f278eadd2db490d150" style="width:100%;height:auto;" class="datatables html-widget"></div>
+<script type="application/json" data-for="htmlwidget-98f278eadd2db490d150">{"x":{"filter":"none","extensions":["Buttons","ColReorder","FixedColumns","FixedHeader"],"caption":"<caption><\/caption>","data":[["Contributions to percent change in GDPNow: Real Gross Private Domestic Investment: Fixed Investment: Business: Equipment(EQUIPCONTRIBNOW)","Contributions to percent change in GDPNow: Real Gross Private Domestic Investment: Fixed Investment: Business: Intellectual Property Products(IPPCONTRIBNOW)","Contributions to percent change in GDPNow: Real Change of Inventory Investment(CHNGNETINVENTCONTRIBNOW)","Contributions to percent change in GDPNow: Real Change of Net Exports of Goods and Services(CHNGNETEXPORTSCONTRIBNOW)","Contributions to percent change in GDPNow: Real Personal Consumption Expenditures(PCECONTRIBNOW)","Contributions to percent change in GDPNow: Real Gross Private Domestic Investment: Fixed Investment: Business(BUSFIXINVESTCONTRIBNOW)","Contributions to percent change in GDPNow: Real Gross Private Domestic Investment(GDPICONTRIBNOW)","Contributions to percent change in GDPNow: Real Gross Government Investment: State and Local Government(SLGOVCONTRIBNOW)","Contributions to percent change in GDPNow: Real Exports of Goods and Services(EXPORTSCONTRIBNOW)","Contributions to percent change in GDPNow: Real Gross Private Domestic Investment: Fixed Investment: Business: Structures (STRUCTCONTRIBNOW)","Contributions to percent change in GDPNow: Real Gross Government Investment: Federal Government(FEDGOVCONTRIBNOW)","Contributions to percent change in GDPNow: Real Imports of Goods and Services(IMPORTSCONTRIBNOW)","Contributions to percent change in GDPNow: Real Final Sales of Domestic Product(FINSALESCONTRIBNOW)","Contributions to percent change in GDPNow: Real Personal Consumption Expenditures: Goods(PCEGOODSCONTRIBNOW)","Contributions to percent change in GDPNow: Real Gross Private Domestic Investment: Fixed Investment: Residential(RESCONTRIBNOW)","Contributions to percent change in GDPNow: Real Exports of Goods(EXPORTSGOODSCONTRIBNOW)","Contributions to percent change in GDPNow: Real Imports of Goods(IMPORTSGOODSCONTRIBNOW)","Contributions to percent change in GDPNow: Real Exports of Services(EXPORTSSERVICESCONTRIBNOW)","Contributions to percent change in GDPNow: Real Imports of Services(IMPORTSERVICESCONTRIBNOW)","Contributions to percent change in GDPNow: Real Gross Government Investment(GOVCONTRIBNOW)","Contributions to percent change in GDPNow: Real Personal Consumption Expenditures: Services(PCESERVICESCONTRIBNOW)","Contributions to percent change in GDPNow: Real Gross Private Domestic Investment: Fixed Investment(FIXINVESTCONTRIBNOW)"],[0.2244,0.2337,0.8229,-0.3985,1.9762,0.4871,1.2366,0.0381,0.2002,0.029,-0.0332,-0.5986,1.9965,0.9047,-0.0734,0.0215,-0.5144,0.1787,-0.0843,0.0049,1.0715,0.4137]],"container":"<table class=\"display compact\">\n  <thead>\n    <tr>\n      <th>Observation Date<\/th>\n      <th>2017-Q2<\/th>\n    <\/tr>\n  <\/thead>\n<\/table>","options":{"paging":true,"autoWidth":false,"info":true,"lengthChange":true,"ordering":true,"searching":true,"scrollX":true,"lengthMenu":[[10,-1],["10","All"]],"orderClasses":true,"order":[[0,"asc"]],"search":{"regex":true,"caseInsensitive":true},"searchHighlight":true,"dom":"BRlfrtip","buttons":["colvis"],"colReorder":true,"fixedHeader":true,"fixedColumns":{"leftColumns":1},"columnDefs":[{"className":"dt-right","targets":[0,1]},{"className":"dt-right","targets":1}]},"selection":{"mode":"multiple","selected":null,"target":"row"}},"evals":[],"jsHooks":[]}</script>
 <ul>
 <li>Unit：Percentage Points,Seasonally Adjusted.</li>
 </ul>

diff --git a/insertHeader.html b/insertHeader.html
@@ -1,8 +1,3 @@
-<meta http-equiv="Pragma" content="no-cache">
-<meta http-equiv="Cache-Control" content="no-cache">
-<meta http-equiv="Expires" content="0">
+
 <link rel="shortcut icon" href="http://knowledgevault.saecanet.com/charts/indicator/favicon-bar-chart.ico">
-<link href="http://knowledgevault.saecanet.com/components/tableAMCC.css" rel="stylesheet">
-<link href="http://knowledgevault.saecanet.com/components/rmarkdown-html.css" rel="stylesheet">
-<script src="http://knowledgevault.saecanet.com/components/JavascriptCode.js"></script>
 

diff --git a/md/20170801-olive.md b/md/20170801-olive.md
@@ -1,56 +1,118 @@
 
 ---
-tags : [財務省,外国為替平衡操作,為替介入]
-title : 外国為替平衡操作の実施状況(月次ベース):平成29年6月29日～平成29年7月27日:外国為替平衡操作額(億円):0
+tags : [GDP,USA,GDPNow]
+title : Latest GDPNow(GDPNOW):2017-Q2:2.8194%
 published : true
 ---
 
 
-<a href="http://knowledgevault.saecanet.com/charts/chartImages/foreignExchangeIntervention1.png"><img border="0" src="http://knowledgevault.saecanet.com/charts/chartImages/foreignExchangeIntervention1.png" width="100%" /></a>
+<a href="http://knowledgevault.saecanet.com/charts/chartImages/LatestGDPNow1.png"><img border="0" src="http://knowledgevault.saecanet.com/charts/chartImages/LatestGDPNow1.png" width="100%" /></a>
 
 
 ***
 
 
-#### 外国為替平衡操作実施月とその操作額(億円)
+#### Latest GDPNow(GDPNOW):2017-Q2:2.8194%
 
 
-- 外国為替平衡操作実施月とその操作額(億円)
+- Contributions
 
 
 <table id = 'amcc' width = '100%'>
  <thead>
   <tr>
-   <th style="text-align:left;"> 期間 </th>
-   <th style="text-align:left;"> URL </th>
-   <th style="text-align:right;"> 外国為替平衡操作額(億円) </th>
-   <th style="text-align:left;"> 期間(西暦) </th>
+   <th style="text-align:left;"> Contributions:Date confirmed:2017-08-01 </th>
+   <th style="text-align:right;"> 2017-Q2 </th>
   </tr>
  </thead>
 <tbody>
   <tr>
-   <td style="text-align:left;"> 平成23年10月28日～平成23年11月28日 </td>
-   <td style="text-align:left;"> <a href="http://www.mof.go.jp/international_policy/reference/feio/monthly/231130.htm" target="_blank">231130.htm</a> </td>
-   <td style="text-align:right;"> 90,916 </td>
-   <td style="text-align:left;"> 2011年11月 </td>
+   <td style="text-align:left;"> Real Final Sales of Domestic Product </td>
+   <td style="text-align:right;"> 1.9965 </td>
   </tr>
   <tr>
-   <td style="text-align:left;"> 平成23年7月28日～平成23年8月29日 </td>
-   <td style="text-align:left;"> <a href="http://www.mof.go.jp/international_policy/reference/feio/monthly/230831.htm" target="_blank">230831.htm</a> </td>
-   <td style="text-align:right;"> 45,129 </td>
-   <td style="text-align:left;"> 2011年08月 </td>
+   <td style="text-align:left;"> Real Personal Consumption Expenditures </td>
+   <td style="text-align:right;"> 1.9762 </td>
   </tr>
   <tr>
-   <td style="text-align:left;"> 平成23年2月25日～平成23年3月29日 </td>
-   <td style="text-align:left;"> <a href="http://www.mof.go.jp/international_policy/reference/feio/monthly/230331.htm" target="_blank">230331.htm</a> </td>
-   <td style="text-align:right;"> 6,925 </td>
-   <td style="text-align:left;"> 2011年03月 </td>
+   <td style="text-align:left;"> Real Gross Private Domestic Investment </td>
+   <td style="text-align:right;"> 1.2366 </td>
   </tr>
   <tr>
-   <td style="text-align:left;"> 平成22年8月30日～9月28日 </td>
-   <td style="text-align:left;"> <a href="http://www.mof.go.jp/international_policy/reference/feio/monthly/220930.htm" target="_blank">220930.htm</a> </td>
-   <td style="text-align:right;"> 21,249 </td>
-   <td style="text-align:left;"> 2010年09月 </td>
+   <td style="text-align:left;"> Services </td>
+   <td style="text-align:right;"> 1.0715 </td>
+  </tr>
+  <tr>
+   <td style="text-align:left;"> Goods </td>
+   <td style="text-align:right;"> 0.9047 </td>
+  </tr>
+  <tr>
+   <td style="text-align:left;"> Real Change of Inventory Investment </td>
+   <td style="text-align:right;"> 0.8229 </td>
+  </tr>
+  <tr>
+   <td style="text-align:left;"> Business </td>
+   <td style="text-align:right;"> 0.4871 </td>
+  </tr>
+  <tr>
+   <td style="text-align:left;"> Fixed Investment </td>
+   <td style="text-align:right;"> 0.4137 </td>
+  </tr>
+  <tr>
+   <td style="text-align:left;"> Intellectual Property Products </td>
+   <td style="text-align:right;"> 0.2337 </td>
+  </tr>
+  <tr>
+   <td style="text-align:left;"> Equipment </td>
+   <td style="text-align:right;"> 0.2244 </td>
+  </tr>
+  <tr>
+   <td style="text-align:left;"> Real Exports of Goods and Services </td>
+   <td style="text-align:right;"> 0.2002 </td>
+  </tr>
+  <tr>
+   <td style="text-align:left;"> Real Exports of Services </td>
+   <td style="text-align:right;"> 0.1787 </td>
+  </tr>
+  <tr>
+   <td style="text-align:left;"> State and Local Government </td>
+   <td style="text-align:right;"> 0.0381 </td>
+  </tr>
+  <tr>
+   <td style="text-align:left;"> Structures </td>
+   <td style="text-align:right;"> 0.029 </td>
+  </tr>
+  <tr>
+   <td style="text-align:left;"> Real Exports of Goods </td>
+   <td style="text-align:right;"> 0.0215 </td>
+  </tr>
+  <tr>
+   <td style="text-align:left;"> Real Gross Government Investment </td>
+   <td style="text-align:right;"> 0.0049 </td>
+  </tr>
+  <tr>
+   <td style="text-align:left;"> Federal Government </td>
+   <td style="text-align:right;"> -0.0332 </td>
+  </tr>
+  <tr>
+   <td style="text-align:left;"> Residential </td>
+   <td style="text-align:right;"> -0.0734 </td>
+  </tr>
+  <tr>
+   <td style="text-align:left;"> Real Imports of Services </td>
+   <td style="text-align:right;"> -0.0843 </td>
+  </tr>
+  <tr>
+   <td style="text-align:left;"> Real Change of Net Exports of Goods and Services </td>
+   <td style="text-align:right;"> -0.3985 </td>
+  </tr>
+  <tr>
+   <td style="text-align:left;"> Real Imports of Goods </td>
+   <td style="text-align:right;"> -0.5144 </td>
+  </tr>
+  <tr>
+   <td style="text-align:left;"> Real Imports of Goods and Services </td>
+   <td style="text-align:right;"> -0.5986 </td>
   </tr>
 </tbody>
 </table>
@@ -58,7 +120,7 @@ published : true
 ## データテーブル･チャート
 
 
-Link : [データテーブル･チャート](http://knowledgevault.saecanet.com/charts/am-consulting.co.jp-foreignExchangeIntervention.html)
+Link : [データテーブル･チャート](http://knowledgevault.saecanet.com/charts/am-consulting.co.jp-LatestGDPNow.html)
 
 
-<iframe src="http://knowledgevault.saecanet.com/charts/am-consulting.co.jp-foreignExchangeIntervention.html" width="100%" height="800px"></iframe>
+<iframe src="http://knowledgevault.saecanet.com/charts/am-consulting.co.jp-LatestGDPNow.html" width="100%" height="800px"></iframe>
